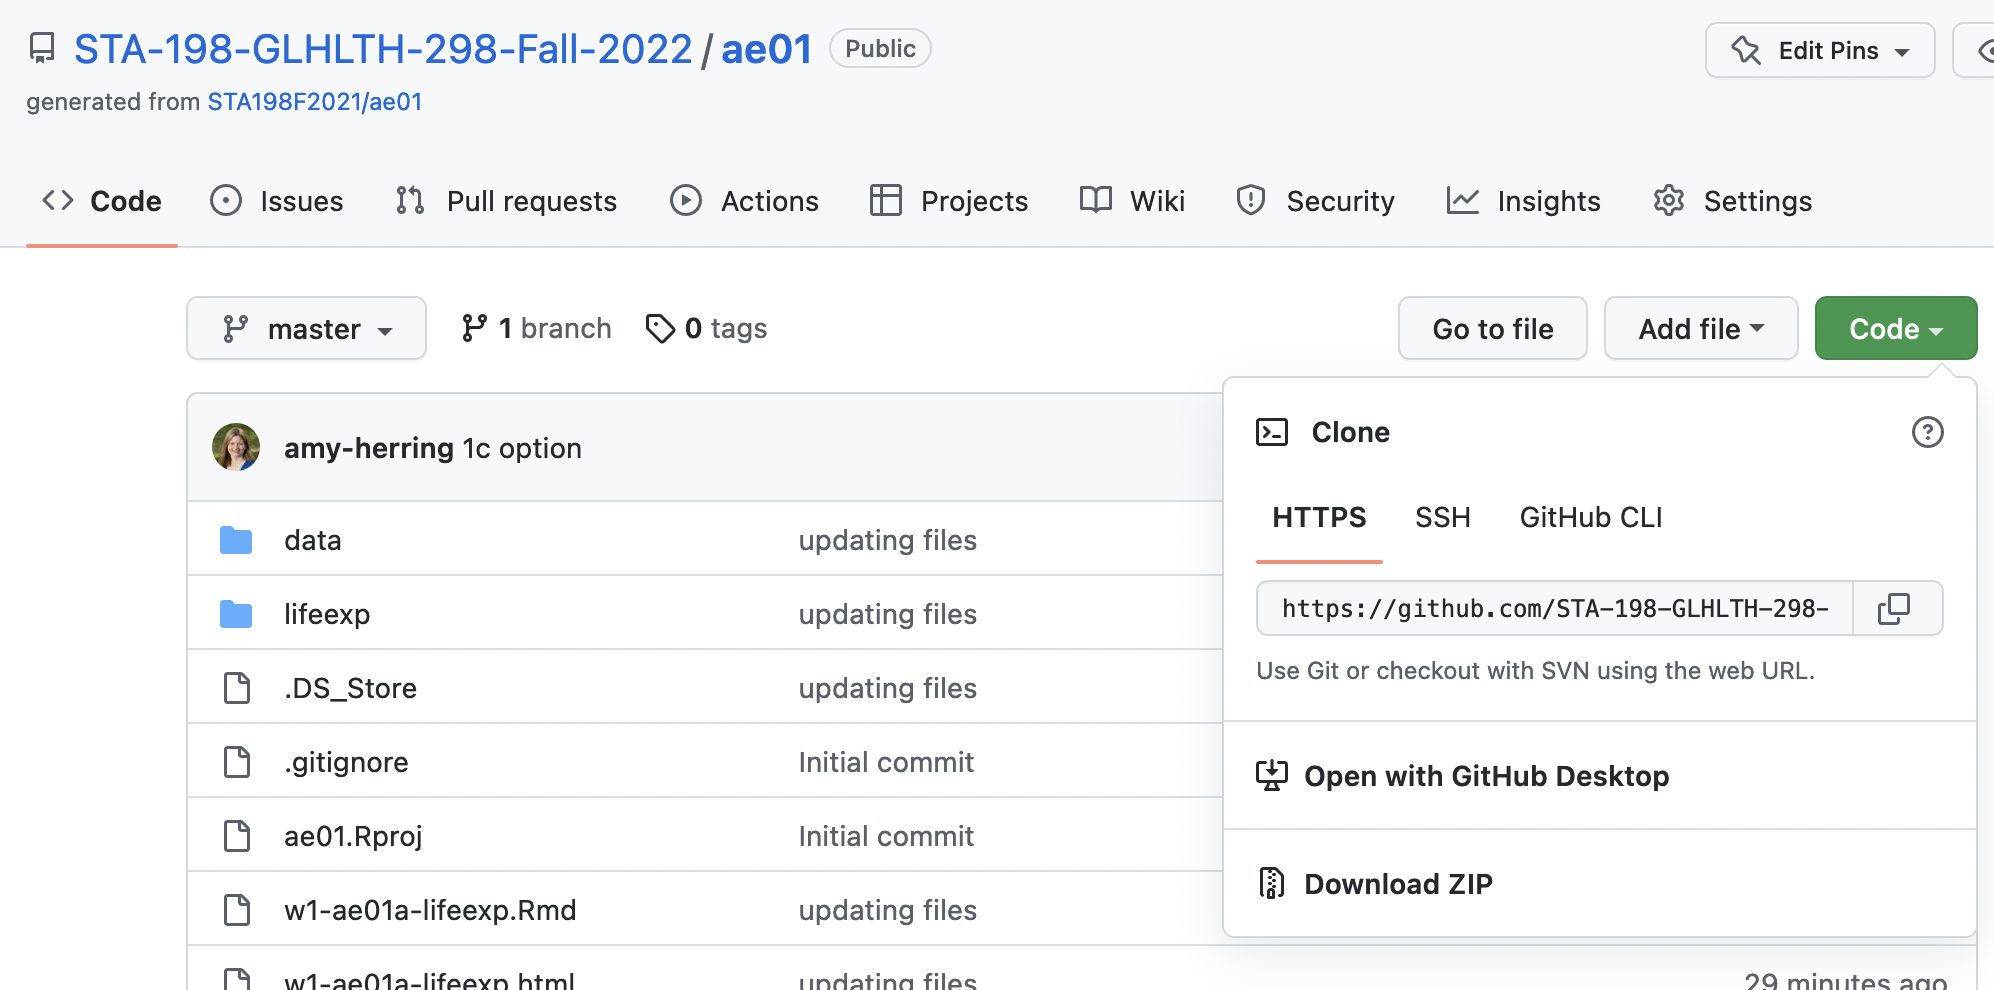
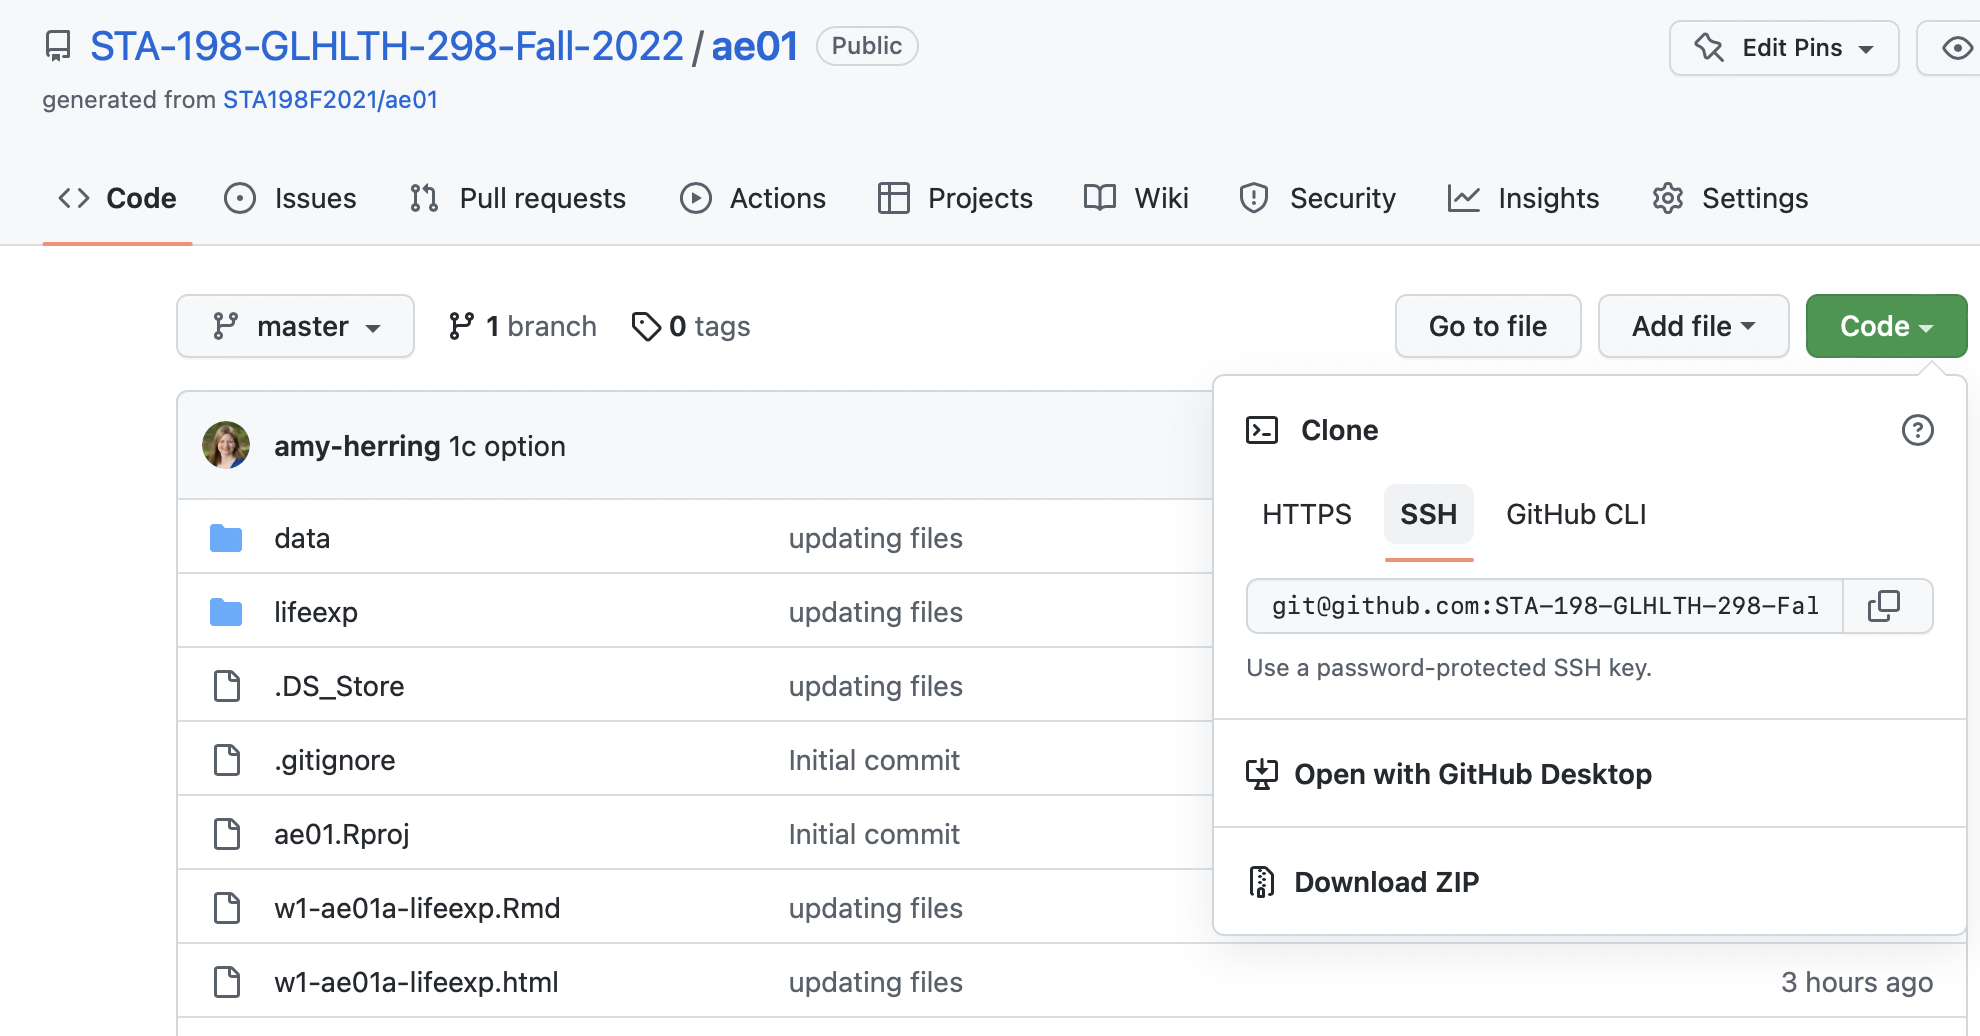
sam lab edits and ae edit

diff --git a/docs/slides/week-01/w1-ae01-your-turn-lifeexp-covid.html b/docs/slides/week-01/w1-ae01-your-turn-lifeexp-covid.html
@@ -50,32 +50,35 @@ Pick one and complete it. Optionally, try another as well.
 
 ---
 
--   Click on the green **CODE** button, select **HTTPS** (this might already be selected by default). Click on the clipboard icon to copy the repo URL.
+
+
+-   Click on the green **CODE** button, select **Use SSH** (this might already be selected by default, and if it is, you'll see the text **Clone with SSH**). Click on the clipboard icon to copy the repo URL.
 
 &lt;img src="img/01/clone.png" width="60%" style="display: block; margin: auto;" /&gt;
 
 ---
 
--   Go to &lt;https://vm-manage.oit.duke.edu/containers&gt; and login with your Duke NetID and Password.
-
--   Click **STA198-199** to log into the Docker container.
-    You should now see the RStudio environment.
-
 -   Go to *File* `\(\rightarrow\)` *New Project* `\(\rightarrow\)` *Version Control* `\(\rightarrow\)` *Git*.
 
----
+-   Copy and paste the URL of your assignment repo into the dialog box *Repository URL* (it will differ from the one shown here). Again, please make sure to have *SSH* highlighted under *Clone* when you copied the address. For the box titled *Create project as subdirectory of*, you can put `~`. You could also click *Browse* `\(\rightarrow\)` *Home* `\(\rightarrow\)` *Choose*.
 
--   Copy and paste the URL of your assignment repo into the dialog box *Repository URL*. You may need to select the R directory (or create another as the file location).
-
-&lt;img src="img/01/github-example-2.png" width="60%" style="display: block; margin: auto;" /&gt;
-
+![Version Control and Cloning Repo](img/01/github-example-2.png)
 
 ---
 
 -   Click *Create Project*, and the files from your GitHub repo will be displayed in the *Files* pane in RStudio.
 
 
+```marginfigure
+If you get a window that asks if you still want to connect, enter `yes`.
+```
+
+-   Click the *.Rmd* file of your choice to open the template R Markdown file.
+
+
+
 ---
+
 
 
 .your-turn[

diff --git a/static/slides/week-01/w1-ae01-your-turn-lifeexp-covid.html b/static/slides/week-01/w1-ae01-your-turn-lifeexp-covid.html
@@ -50,32 +50,35 @@ Pick one and complete it. Optionally, try another as well.
 
 ---
 
--   Click on the green **CODE** button, select **HTTPS** (this might already be selected by default). Click on the clipboard icon to copy the repo URL.
+
+
+-   Click on the green **CODE** button, select **Use SSH** (this might already be selected by default, and if it is, you'll see the text **Clone with SSH**). Click on the clipboard icon to copy the repo URL.
 
 &lt;img src="img/01/clone.png" width="60%" style="display: block; margin: auto;" /&gt;
 
 ---
 
--   Go to &lt;https://vm-manage.oit.duke.edu/containers&gt; and login with your Duke NetID and Password.
-
--   Click **STA198-199** to log into the Docker container.
-    You should now see the RStudio environment.
-
 -   Go to *File* `\(\rightarrow\)` *New Project* `\(\rightarrow\)` *Version Control* `\(\rightarrow\)` *Git*.
 
----
+-   Copy and paste the URL of your assignment repo into the dialog box *Repository URL* (it will differ from the one shown here). Again, please make sure to have *SSH* highlighted under *Clone* when you copied the address. For the box titled *Create project as subdirectory of*, you can put `~`. You could also click *Browse* `\(\rightarrow\)` *Home* `\(\rightarrow\)` *Choose*.
 
--   Copy and paste the URL of your assignment repo into the dialog box *Repository URL*. You may need to select the R directory (or create another as the file location).
-
-&lt;img src="img/01/github-example-2.png" width="60%" style="display: block; margin: auto;" /&gt;
-
+![Version Control and Cloning Repo](img/01/github-example-2.png)
 
 ---
 
 -   Click *Create Project*, and the files from your GitHub repo will be displayed in the *Files* pane in RStudio.
 
 
+```marginfigure
+If you get a window that asks if you still want to connect, enter `yes`.
+```
+
+-   Click the *.Rmd* file of your choice to open the template R Markdown file.
+
+
+
 ---
+
 
 
 .your-turn[
